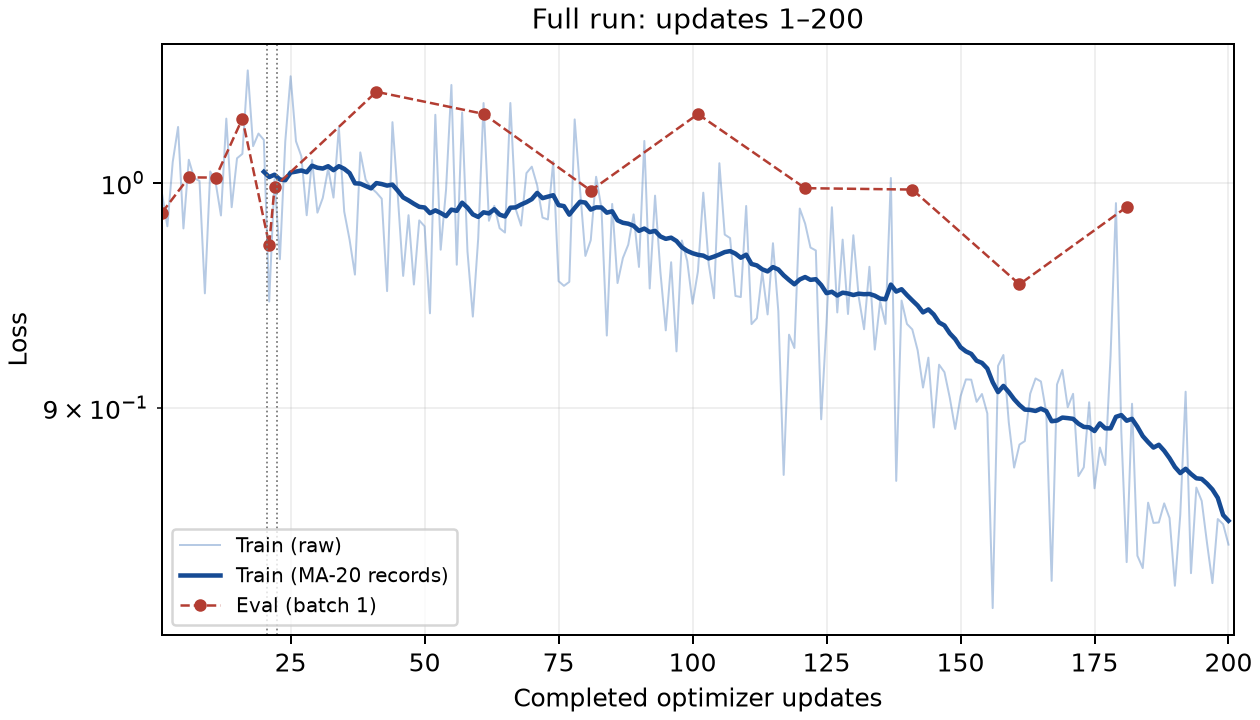
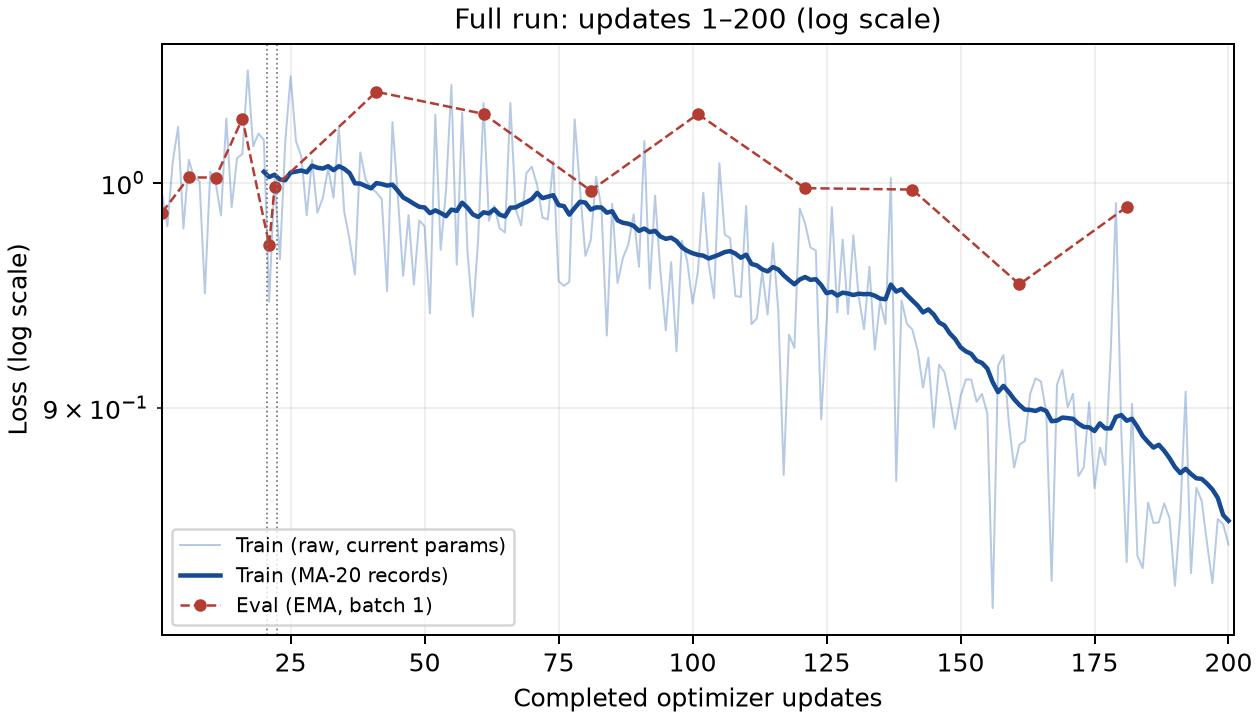
Clarify log-scale warmup plots and current versus EMA loss semantics

diff --git a/scripts/reproduction/export-score-sde-results.py b/scripts/reproduction/export-score-sde-results.py
@@ -84,11 +84,11 @@ smooth=np.convolve(train_values,np.ones(20)/20,mode='valid');sx=x[19:]
 def panel(ax,late=False):
     lo=100 if late else 1
     mask=x>=lo;em=ex>=lo;sm=sx>=lo
-    ax.plot(x[mask],train_values[mask],color='#3069b4',alpha=.35,lw=.8,label='Train (raw)')
+    ax.plot(x[mask],train_values[mask],color='#3069b4',alpha=.35,lw=.8,label='Train (raw, current params)')
     ax.plot(sx[sm],smooth[sm],color='#164b94',lw=1.8,label='Train (MA-20 records)')
-    ax.plot(ex[em],eval_values[em],'o--',color='#b33d32',ms=4,lw=1,label='Eval (batch 1)')
-    ax.set(xlabel='Completed optimizer updates',ylabel='Loss',yscale='log',xlim=(lo,201),
-           title='Later warmup: updates 100–200' if late else 'Full run: updates 1–200')
+    ax.plot(ex[em],eval_values[em],'o--',color='#b33d32',ms=4,lw=1,label='Eval (EMA, batch 1)')
+    ax.set(xlabel='Completed optimizer updates',ylabel='Loss (log scale)',yscale='log',xlim=(lo,201),
+           title='Later warmup: updates 100–200 (log scale)' if late else 'Full run: updates 1–200 (log scale)')
     if not late:
         for pos in [20.5,22.5]:ax.axvline(pos,color='#777777',lw=.7,ls=':')
     ax.grid(alpha=.2,which='both');ax.legend(fontsize=8,loc='lower left')
@@ -110,6 +110,7 @@ summary={'status':'passed','training_entries':200,'validation_entries':14,
     'interpretation':'Small-scale functionality reproduction only; still within 5000-update warmup; no overfitting/convergence assessment or standard image metrics.',
     'original_teacher_extraction_function':'external/score-sde-reproduction/plot_loss.py:extract_losses',
     'published_tensorboard_readback':'step/value comparison to all three stage reports passed',
+    'parameter_semantics':'Training uses current optimizer parameters with train=True; evaluation and sampling use params_ema with train=False. The curves are not losses from the same parameter set.',
     'teacher_plot_difference':'Uses our actual 1–200 and 100–200 ranges; does not run the teacher 5k+ panel or heuristic overfitting classifier.'}
 (OUT/'summary.json').write_text(json.dumps(summary,indent=2)+'\n')
 # Verify the portable binary export itself before delivery.

diff --git a/docs/reproduction/score-sde/final-report.md b/docs/reproduction/score-sde/final-report.md
@@ -47,6 +47,8 @@ The two views show completed updates 1–200 and 100–200. Both use log loss ax
 
 The data use the teacher's unchanged `plot_loss.extract_losses` reader. NPZ fields are exactly `train_steps`, `train_losses`, `eval_steps`, `eval_losses`, preserving original loop labels 0–199. CSV adds stage and completed update (`loop_step + 1`). Our MA-20 spans 20 updates; teacher reference data log every 50 labels, so their MA-20 spans approximately 1,000 updates. The original 5k+ right panel is inapplicable here.
 
+The original training loss uses current optimizer parameters with training mode enabled; evaluation and sampling use EMA parameters in evaluation mode. These curves therefore do not compare the same parameter set. With EMA 0.9999, its initialization term retains approximately 98% weight after 200 updates, so a lagging validation curve and poor EMA samples are unsurprising at this stage. This is an explanation consistent with the method, not a proof that later training will succeed.
+
 The decreasing training moving average does not establish convergence. Validation is sparse, batch size is one, and validation sampling/preprocessing is stochastic. The last train/eval observations are from different updates; no same-update final ratio or “No overfitting” status is reported. Train-mode validation uses the original CIFAR-10 test split, not an untouched final scientific test set.
 
 - [Individual full view](../../../results/score-sde/final-summary/loss-full.png), [individual late view](../../../results/score-sde/final-summary/loss-late.png).

diff --git a/docs/reproduction/score-sde/sampling-check.md b/docs/reproduction/score-sde/sampling-check.md
@@ -31,6 +31,8 @@ The upstream function returns the generic counter `N * (n_steps_each + 1) = 2000
 
 The generated arrays are finite but have large ranges and approximately 99% of RGB components lie outside [0,1]. Saved PNGs clip these values to [0,1] and map them to uint8, matching the original display convention. The previews therefore look like saturated colored noise. Their successful creation does **not** demonstrate effective denoising or realistic CIFAR-10 generation.
 
+Original evaluation and sampling use EMA parameters, while training loss uses current parameters. At EMA 0.9999, the initialization contribution retains approximately 98% weight after 200 updates; a falling current-parameter training loss does not guarantee improved EMA samples yet.
+
 The 200-update model is still in the early portion of its original 5,000-update learning-rate warmup, and its EMA has not undergone enough training to establish image quality. The present success criterion is the working checkpoint-to-EMA-to-reverse-sampling-to-artifact pipeline. Raw arrays are preserved so display clipping cannot hide their behavior. Do not interpret finite values alone as evidence that the learned reverse process is accurate.
 
 The 2 by 2 contact sheet orders seeds 1001, 1002, 1003, 1004 from left to right and top to bottom. It is a native 64 by 64 display image:
